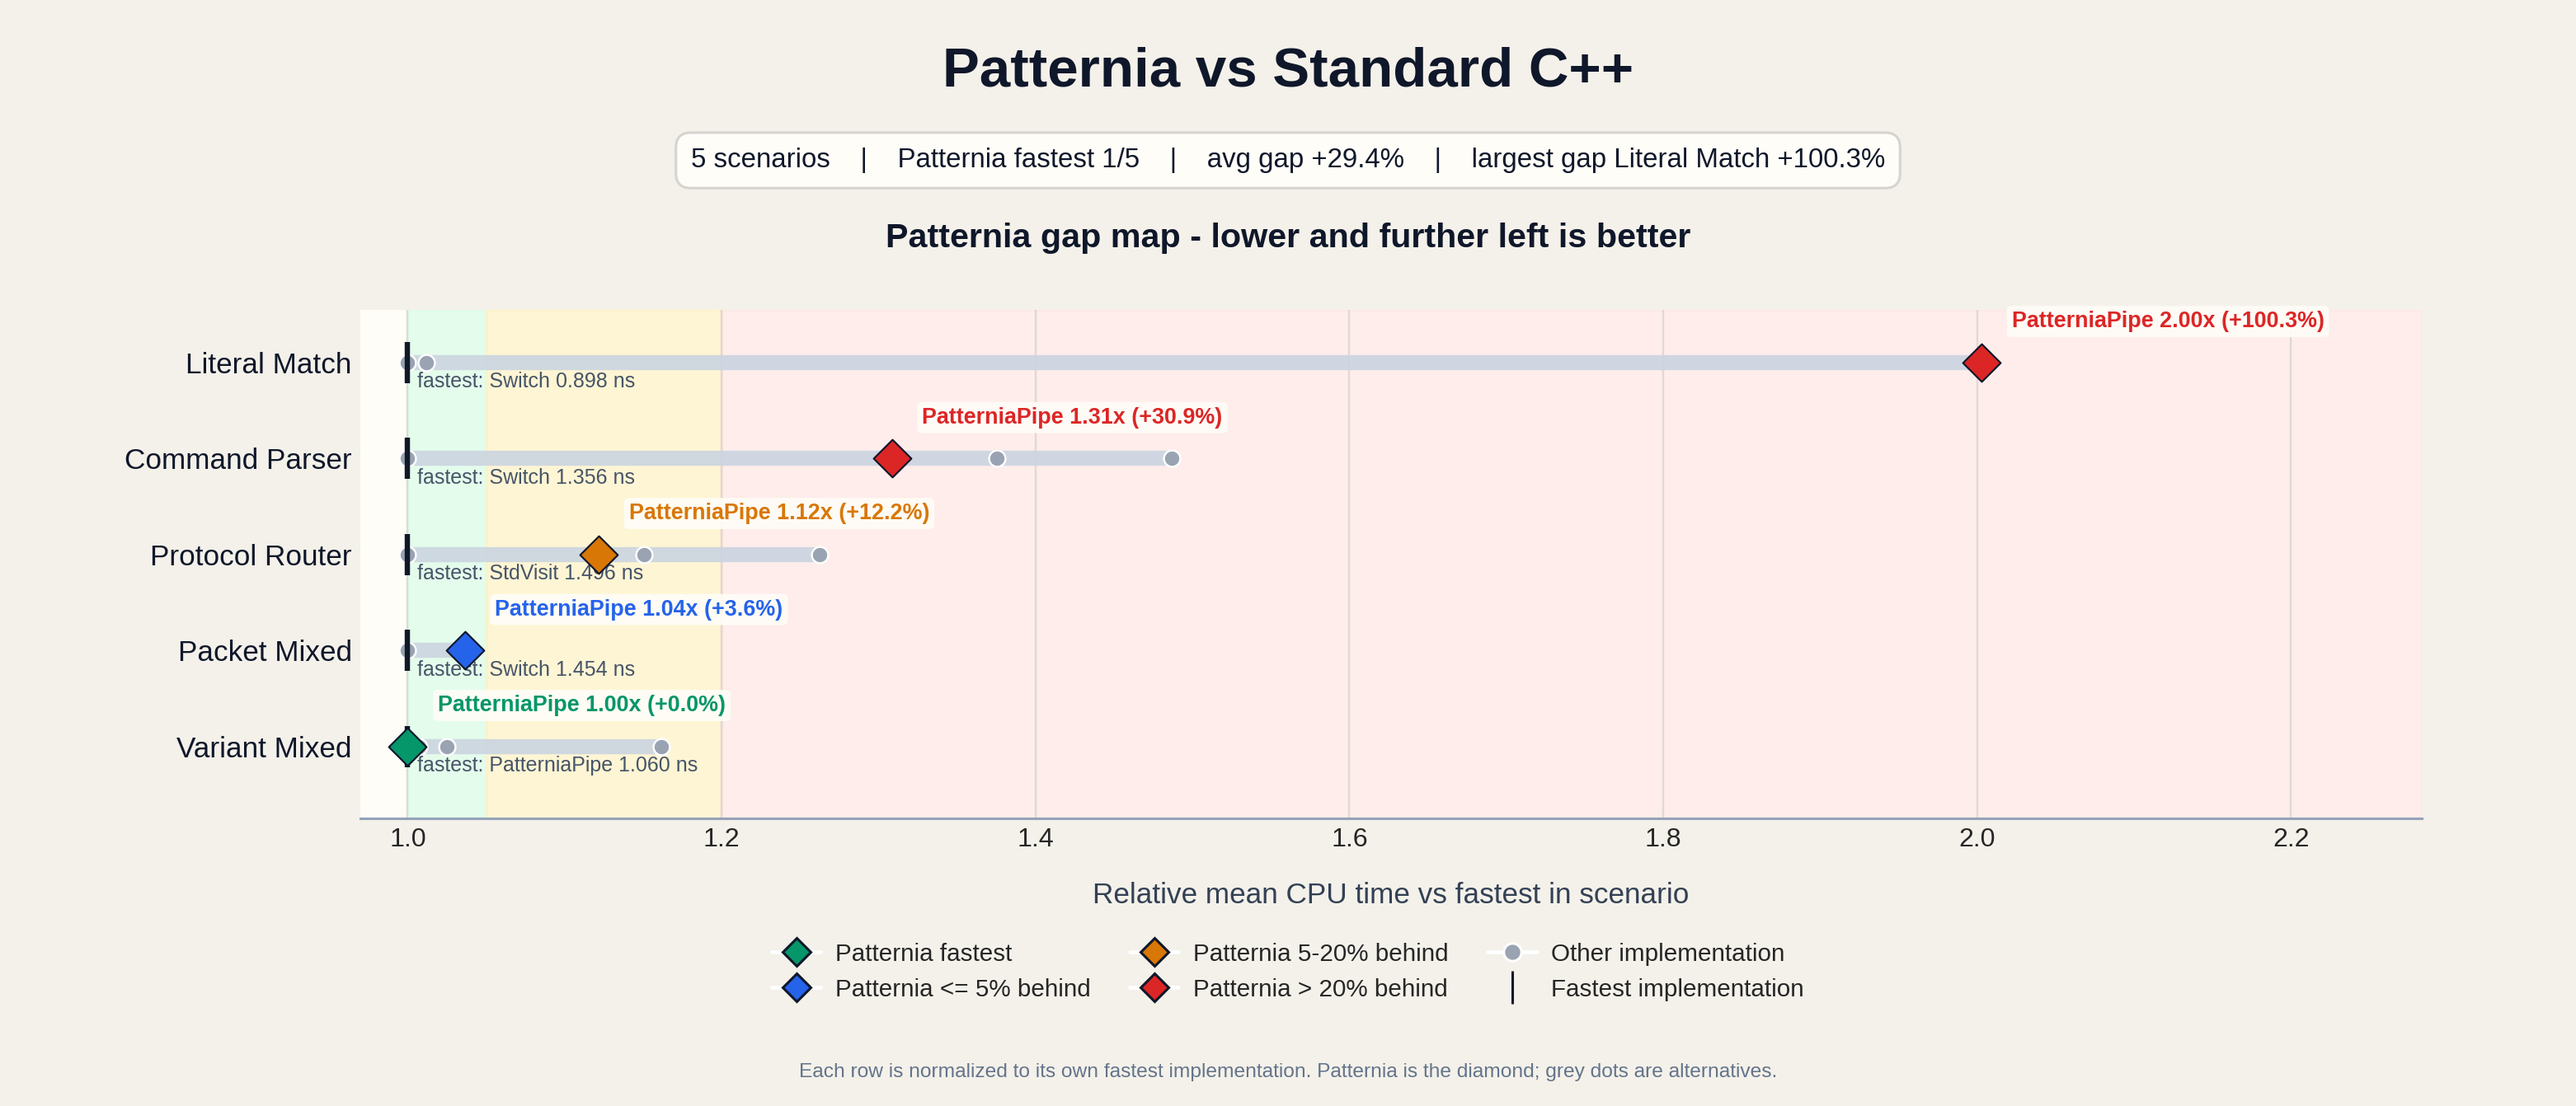
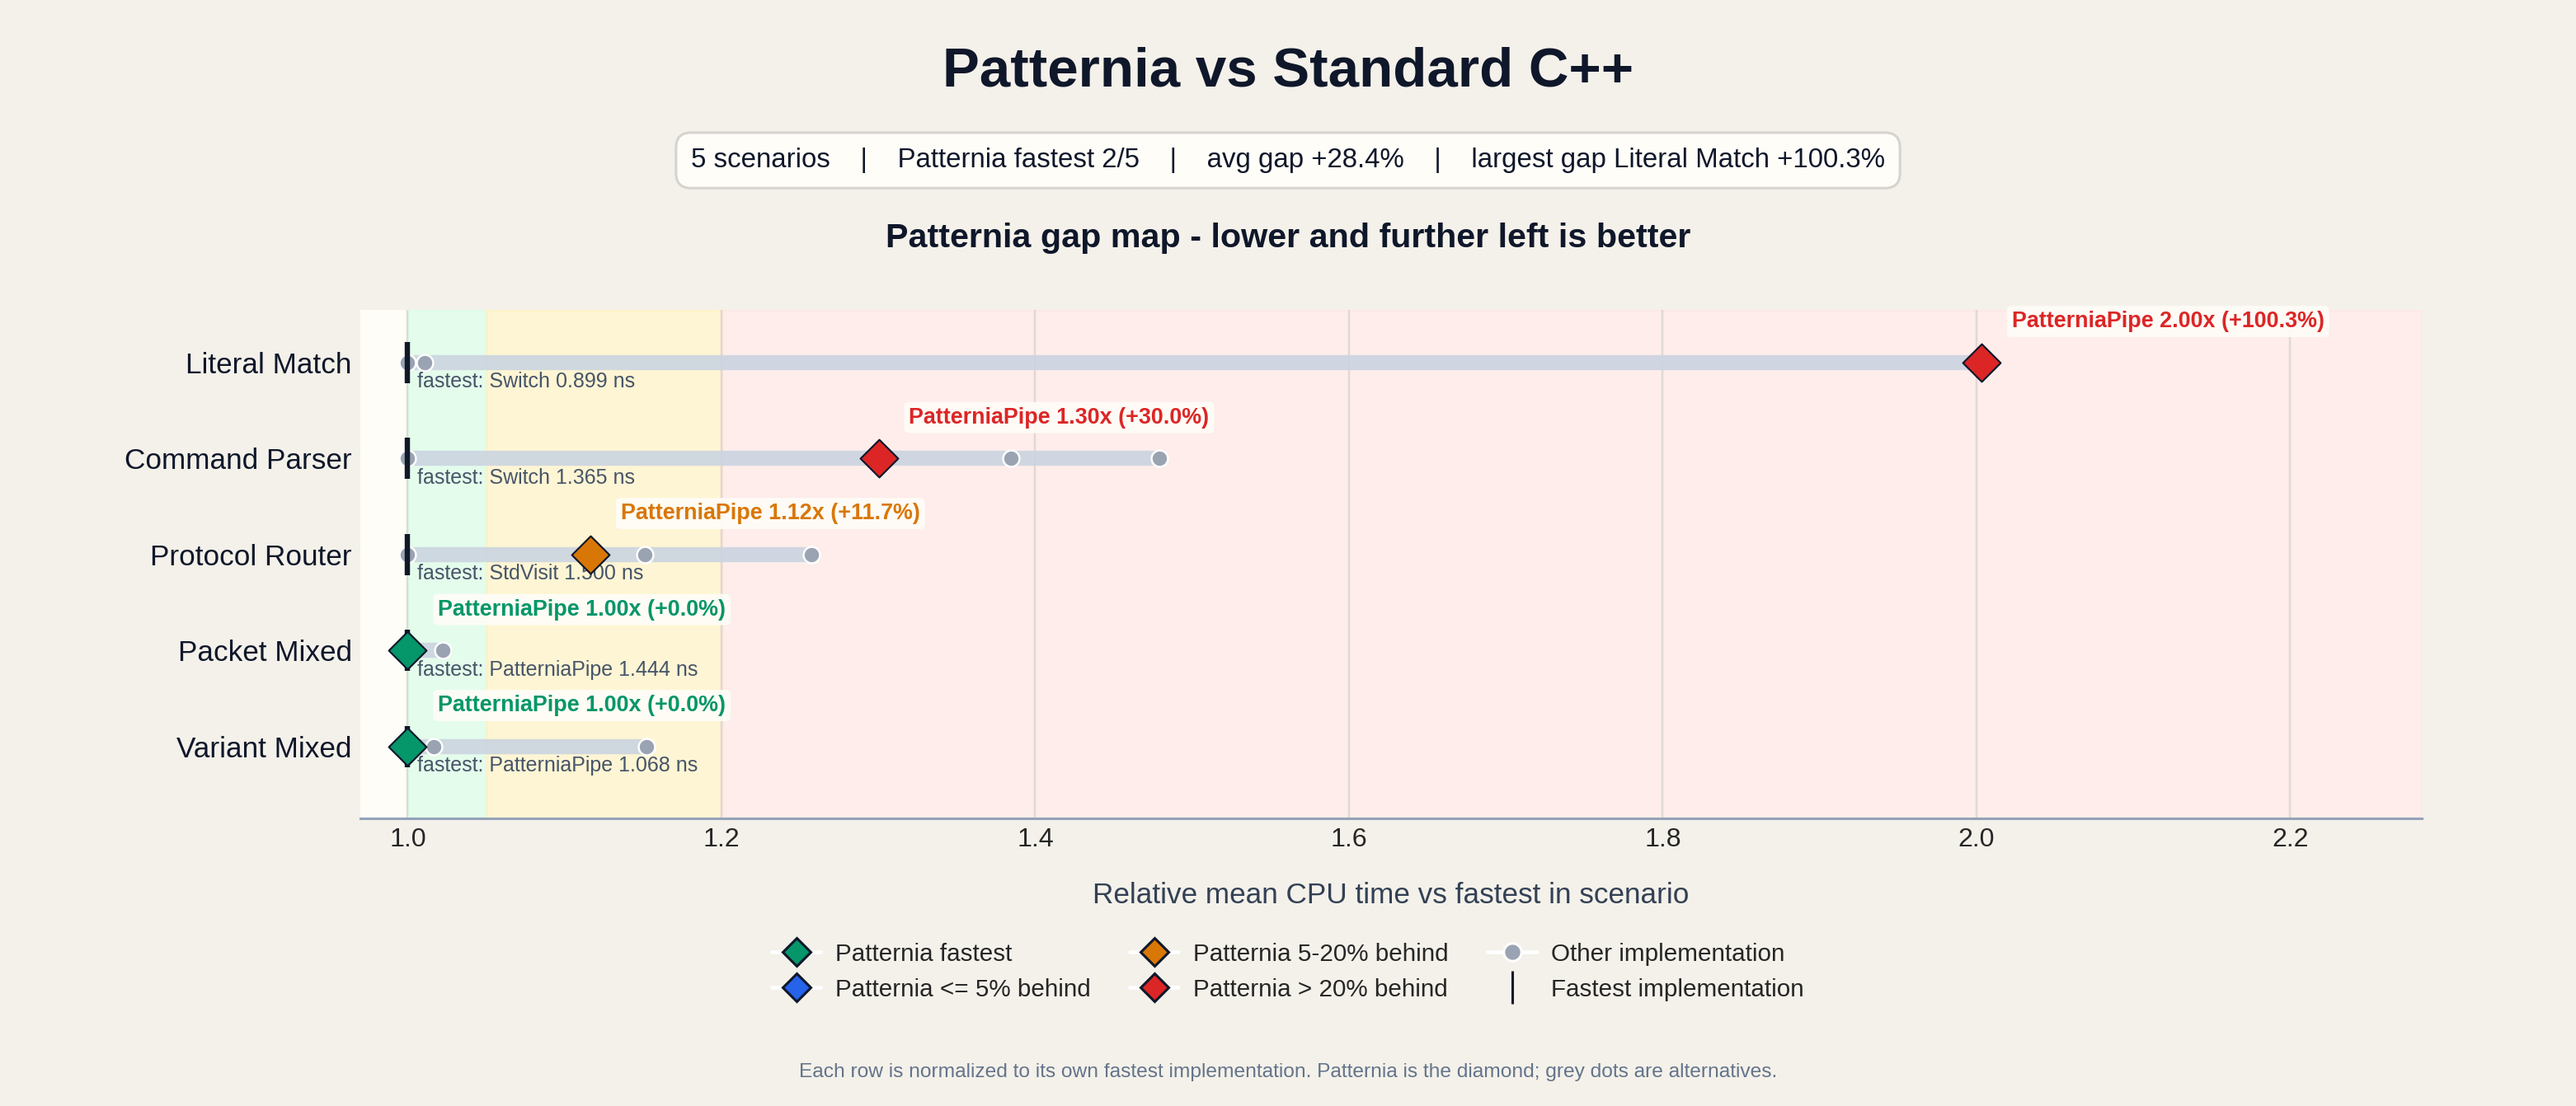
ci: update benchmark summary chart

diff --git a/docs/assets/bench/latest.md b/docs/assets/bench/latest.md
@@ -2,19 +2,19 @@
 
 - Source: `bench_results/ptn_bench.json`
 - Scenarios: `5`
-- Patternia fastest: `1/5`
-- Average Patternia gap vs fastest: `+29.39%`
-- Largest Patternia gap: `LiteralMatch` `+100.28%` vs `Switch`
+- Patternia fastest: `2/5`
+- Average Patternia gap vs fastest: `+28.40%`
+- Largest Patternia gap: `LiteralMatch` `+100.33%` vs `Switch`
 
 ## Patternia Focus
 
 | Scenario | Patternia impl | Rank | Patternia mean (ns) | Fastest | Fastest mean (ns) | Gap vs fastest | Patternia CV % | Status |
 |---|---:|---:|---:|---:|---:|---:|---:|---:|
-| LiteralMatch | PatterniaPipe | 3/3 | 1.799 | Switch | 0.898 | +100.28% | 0.10 | slow |
-| CommandParser | PatterniaPipe | 2/4 | 1.774 | Switch | 1.356 | +30.86% | 0.43 | slow |
-| ProtocolRouter | PatterniaPipe | 2/4 | 1.678 | StdVisit | 1.496 | +12.17% | 0.90 | watch |
-| PacketMixed | PatterniaPipe | 2/2 | 1.507 | Switch | 1.454 | +3.63% | 4.98 | close |
-| VariantMixed | PatterniaPipe | 1/4 | 1.060 | PatterniaPipe | 1.060 | +0.00% | 1.00 | fastest |
+| LiteralMatch | PatterniaPipe | 3/3 | 1.800 | Switch | 0.899 | +100.33% | 0.28 | slow |
+| CommandParser | PatterniaPipe | 2/4 | 1.775 | Switch | 1.365 | +30.04% | 0.24 | slow |
+| ProtocolRouter | PatterniaPipe | 2/4 | 1.675 | StdVisit | 1.500 | +11.65% | 0.88 | watch |
+| PacketMixed | PatterniaPipe | 1/2 | 1.444 | PatterniaPipe | 1.444 | +0.00% | 5.78 | fastest |
+| VariantMixed | PatterniaPipe | 1/4 | 1.068 | PatterniaPipe | 1.068 | +0.00% | 0.32 | fastest |
 
 ---
 
@@ -23,41 +23,41 @@
 
 | Impl | Mean (ns) | vs fastest | vs Patternia | CV % |
 |---|---:|---:|---:|---:|
-| Switch | 0.898 | fastest | -50.07% | 0.15 |
-| IfElse | 0.909 | +1.20% | -49.47% | 0.24 |
-| **PatterniaPipe** | 1.799 | +100.28% | - | 0.10 |
+| Switch | 0.899 | fastest | -50.08% | 0.27 |
+| IfElse | 0.908 | +1.08% | -49.54% | 0.24 |
+| **PatterniaPipe** | 1.800 | +100.33% | - | 0.28 |
 
 ### CommandParser
 
 | Impl | Mean (ns) | vs fastest | vs Patternia | CV % |
 |---|---:|---:|---:|---:|
-| Switch | 1.356 | fastest | -23.58% | 0.91 |
-| **PatterniaPipe** | 1.774 | +30.86% | - | 0.43 |
-| IfElse | 1.865 | +37.55% | +5.11% | 3.76 |
-| StdVisit | 2.016 | +48.66% | +13.60% | 0.17 |
+| Switch | 1.365 | fastest | -23.10% | 1.39 |
+| **PatterniaPipe** | 1.775 | +30.04% | - | 0.24 |
+| IfElse | 1.890 | +38.45% | +6.47% | 3.94 |
+| StdVisit | 2.019 | +47.91% | +13.75% | 1.16 |
 
 ### ProtocolRouter
 
 | Impl | Mean (ns) | vs fastest | vs Patternia | CV % |
 |---|---:|---:|---:|---:|
-| StdVisit | 1.496 | fastest | -10.85% | 0.32 |
-| **PatterniaPipe** | 1.678 | +12.17% | - | 0.90 |
-| Switch | 1.721 | +15.06% | +2.58% | 0.20 |
-| IfElse | 1.888 | +26.25% | +12.56% | 0.53 |
+| StdVisit | 1.500 | fastest | -10.43% | 0.50 |
+| **PatterniaPipe** | 1.675 | +11.65% | - | 0.88 |
+| Switch | 1.727 | +15.09% | +3.08% | 0.82 |
+| IfElse | 1.886 | +25.72% | +12.60% | 0.15 |
 
 ### PacketMixed
 
 | Impl | Mean (ns) | vs fastest | vs Patternia | CV % |
 |---|---:|---:|---:|---:|
-| Switch | 1.454 | fastest | -3.50% | 1.18 |
-| **PatterniaPipe** | 1.507 | +3.63% | - | 4.98 |
+| **PatterniaPipe** | 1.444 | fastest | - | 5.78 |
+| Switch | 1.477 | +2.24% | +2.24% | 1.50 |
 
 ### VariantMixed
 
 | Impl | Mean (ns) | vs fastest | vs Patternia | CV % |
 |---|---:|---:|---:|---:|
-| **PatterniaPipe** | 1.060 | fastest | - | 1.00 |
-| StdVisit | 1.067 | +0.71% | +0.71% | 0.12 |
-| SwitchIndex | 1.086 | +2.49% | +2.49% | 1.09 |
-| Sequential | 1.231 | +16.18% | +16.18% | 0.16 |
+| **PatterniaPipe** | 1.068 | fastest | - | 0.32 |
+| StdVisit | 1.068 | +0.01% | +0.01% | 0.19 |
+| SwitchIndex | 1.086 | +1.64% | +1.64% | 0.26 |
+| Sequential | 1.231 | +15.24% | +15.24% | 0.20 |
 
